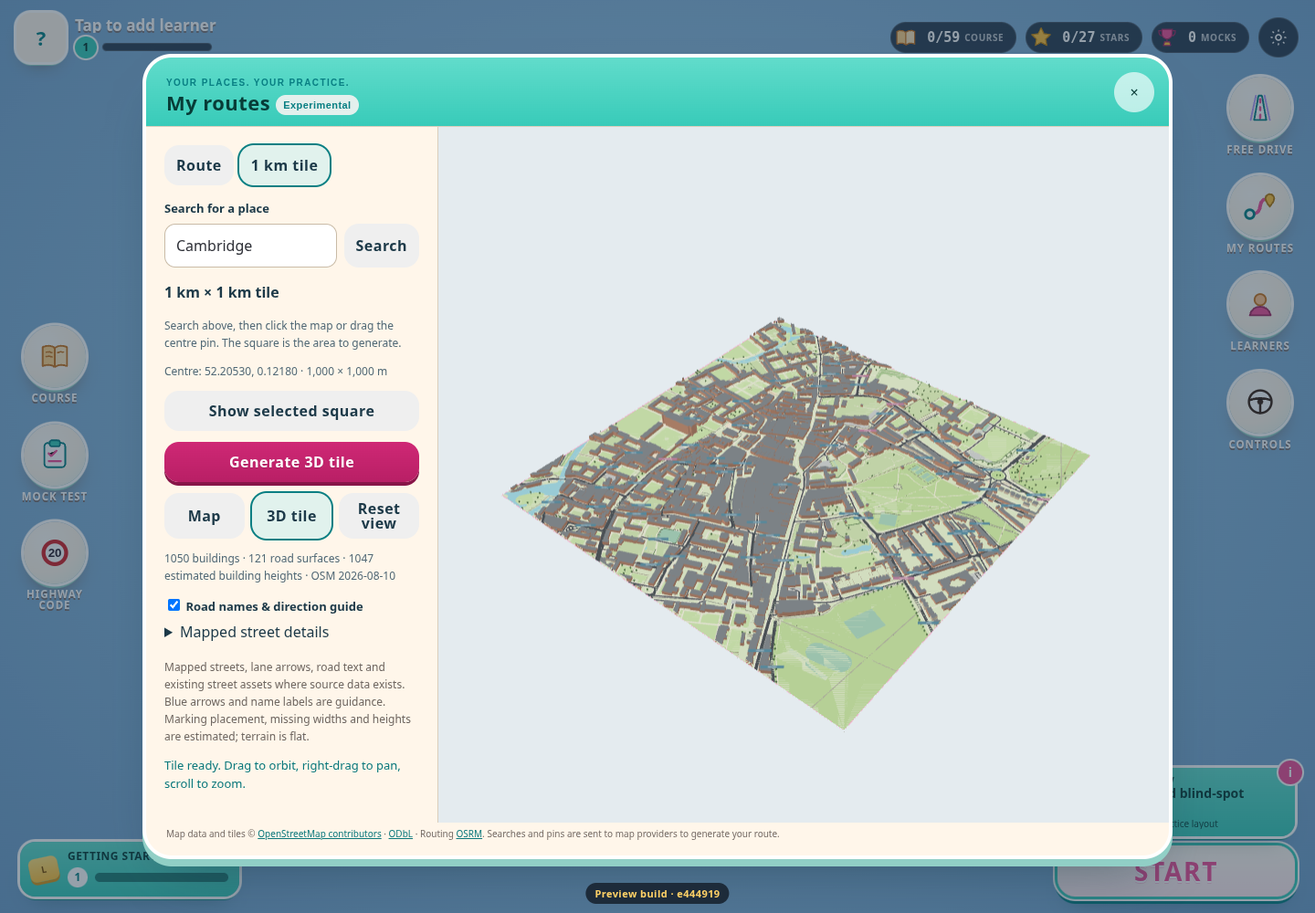
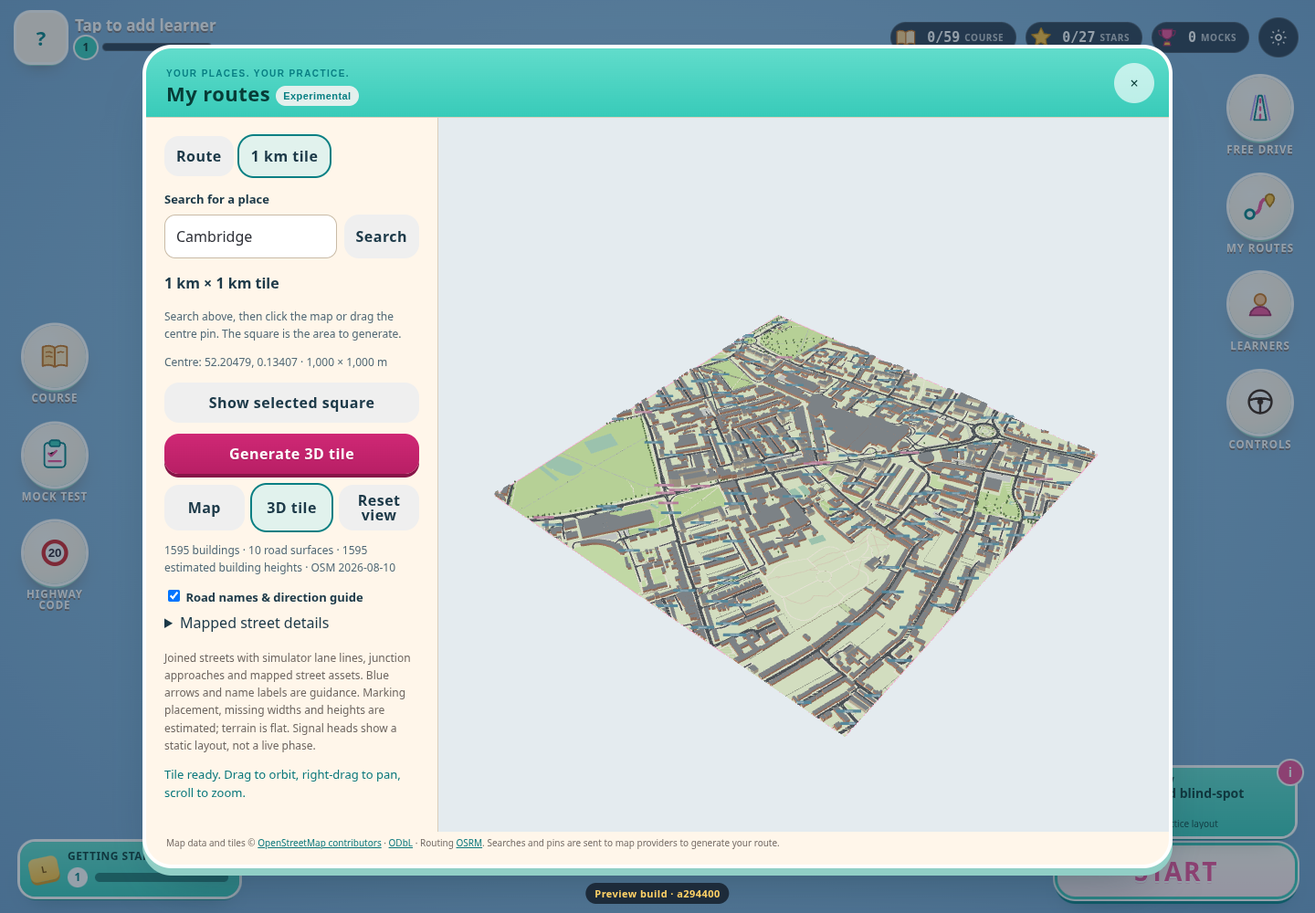
Fix tile road surfaces, markings and coordinated crossing layouts

diff --git a/js/tile-builder/street-data.js b/js/tile-builder/street-data.js
@@ -1,7 +1,10 @@
-import {along,posAt,nearest} from '../net.js';
+import {sameSignalApproach,crossingController} from './signals.js';
+import {yellowBoxPaint} from './markings.js';
+import {lineDashes,giveWayDist,isJunction} from '../markings.js';
+import {along,posAt,nearest,laneArrows} from '../net.js';
 import {dash} from '../road-ribbon.js';
 import {roadSpace,roadsidePosition} from '../road-space.js';
-import {objectBlocker} from '../roadside-clearance.js';
+import {objectBlocker,objectRings} from '../roadside-clearance.js';
 import {polygonOperation} from '../road-surfaces.js';
 
 const integer=v=>/^\d+$/.test(String(v))&&Number(v)>0&&Number(v)<=12?Number(v):null;
@@ -19,24 +22,26 @@ export function laneLayout(tags,oneway){
 }
 export function turnCode(value){const parts=value.split(';');if(parts.some(v=>!['left','through','right','none',''].includes(v)))return null;return ['left','through','right'].filter(v=>parts.includes(v)).map(v=>({left:'L',through:'S',right:'R'})[v]).join('');}
 const inside=p=>Math.abs(p.x)<=500&&Math.abs(p.z)<=500;
-export function streetData(track,net,data,core){
- const paint=[],arrows=[],texts=[],boxes=[],signs=[],signals=[],labels=[],guides=[],unknown=[],parking=[],restrictions=[];
+export function streetData(track,net,data,core,surface){
+ const paint=[],arrows=[],texts=[],boxes=[],signs=[],signals=[],labels=[],guides=[],unknown=[],parking=[],restrictions=[],crossings=[],tactile=[],crossingPaint=[],crossingAreas=[];
  const nodes=new Map(data.elements.filter(e=>e.type==='node').map(e=>[e.id,e])),project=n=>({x:(n.lon-net.origin[1])*net.kx,z:-(n.lat-net.origin[0])*net.kz});
  const blocked=objectBlocker(track.objects.filter(o=>o.type==='building')),space=roadSpace(net),source=track.osm.ways;
  const addQuad=(...v)=>{paint.push([Array.from({length:4},(_,i)=>[v[i*2],v[i*2+1]])]);};
  const rect=(p,w,l)=>{const nx=p.tz,nz=-p.tx;return [[-w/2,-l/2],[w/2,-l/2],[w/2,l/2],[-w/2,l/2]].map(([a,b])=>[p.x+nx*a+p.tx*b,p.z+nz*a+p.tz*b]);};
- const longest=new Map();
+ const longest=new Map();let inferredPaint=0,inferredArrows=0;
  for(const e of net.edges){
   const tags=source[track.network.edges[e.id][2]]?.tags||{},layout=laneLayout(tags,e.way.oneway),reverse=String(tags['oneway:motorcar']??tags['oneway:motor_vehicle']??tags.oneway)==='-1';
   const midpoint=posAt(e,e.len/2);if(inside(midpoint)&&tags.name&&(!longest.has(tags.name)||longest.get(tags.name).len<e.len))longest.set(tags.name,{...midpoint,text:tags.name,len:e.len});
   if(e.way.oneway&&inside(midpoint))guides.push({...midpoint,kind:'oneway',sourceId:source[track.network.edges[e.id][2]]?.osmId});
+  if(tags.lane_markings!=='no'&&tags.lane_markings!=='yes'&&e.way.w>=5&&!['service','living_street','track'].includes(e.way.cls)){for(const d of lineDashes(net,e)){dash({quad:addQuad},e,d.s,d.len,d.off,0,.07);inferredPaint++;}}
   if(tags.lane_markings==='yes'&&layout){
    const laneWidth=e.way.w/layout.total;
    for(let i=1;i<layout.total;i++){const off=e.way.w/2-i*laneWidth;for(let s=10;s<e.len-10;s+=7)dash({quad:addQuad},e,s,Math.min(3,e.len-10-s),off,0,.07);}
   }
   for(const dir of e.way.oneway?[1]:[1,-1]){
    const suffix=dir===1?(reverse?'backward':'forward'):'backward',n=layout?(dir===1?layout.forward:layout.backward):null;
-   const turns=tokens(tags['turn:lanes:'+suffix]??(e.way.oneway?tags['turn:lanes']:undefined));
+   let turns=tokens(tags['turn:lanes:'+suffix]??(e.way.oneway?tags['turn:lanes']:undefined)),estimated=false;
+   const approach=dir===1?e.b:e.a;if(!turns&&n>=2&&tags.lane_markings!=='no'&&isJunction(net,approach)){const codes=laneArrows(net,e,dir);if(codes?.length===n){turns=codes.map(c=>[...c].map(v=>({L:'left',S:'through',R:'right'})[v]).join(';'));estimated=true;}}
    const buses=tokens(tags['bus:lanes:'+suffix]??tags['psv:lanes:'+suffix]??(e.way.oneway?(tags['bus:lanes']??tags['psv:lanes']):undefined));
    if(!turns&&!buses)continue;
    if(!n||turns&&turns.length!==n||buses&&buses.length!==n){unknown.push('Lane count/direction mismatch on '+(tags.name||e.id));continue;}
@@ -44,8 +49,8 @@ export function streetData(track,net,data,core){
    for(let lane=0;lane<n;lane++){
     const offset=e.way.w/2-(lane+.5)*laneWidth;
     for(const back of [18,48]){
-     if(e.len<back+12)continue;const p=along(e,e.len-back,dir,offset);if(!inside(p))continue;
-     if(turns){const code=turnCode(turns[lane]);if(code)arrows.push({...p,code,width:Math.min(1.1,laneWidth*.5),length:4.5,source:'turn:lanes',estimatedPlacement:true});else if(code===null)unknown.push('Unsupported turn marking: '+turns[lane]);}
+     if(e.len<back+12)continue;const setback=giveWayDist(net,approach,e);if(e.len<back+setback+1)continue;const p=along(e,e.len-back-setback,dir,offset);if(!inside(p))continue;
+     if(turns&&(isJunction(net,approach)||net.inc[approach].length!==2)){const code=turnCode(turns[lane]);if(code){arrows.push({...p,code,width:Math.min(1.1,laneWidth*.5),length:4.5,source:estimated?'simulator-guidance':'turn:lanes',estimatedPlacement:true});if(estimated)inferredArrows++;}else if(code===null)unknown.push('Unsupported turn marking: '+turns[lane]);}
      if(back===48&&buses&&['designated','only'].includes(buses[lane]))texts.push({...p,text:'BUS LANE',width:Math.min(2.4,laneWidth*.8),length:7,estimatedPlacement:true});
     }
    }
@@ -53,16 +58,24 @@ export function streetData(track,net,data,core){
  }
  labels.push(...longest.values());
  function lineAt(f,width=.35,broken=false){const p={x:f.x,z:f.z,tx:f.tx,tz:f.tz};const n=f.e.way.oneway?f.w:f.w/2;const q={...p,x:p.x+p.tz*(f.e.way.oneway?0:f.w/4),z:p.z-p.tx*(f.e.way.oneway?0:f.w/4)};const span=Math.max(.6,n-.5);if(broken){for(let a=-span/2;a<span/2;a+=.6){const len=Math.min(.3,span/2-a);paint.push([rect({...q,x:q.x+q.tz*(a+len/2),z:q.z-q.tx*(a+len/2)},len,width)]);}}else paint.push([rect(q,span,width)]);}
- for(const s of net.stops){if(!inside(s))continue;lineAt(s);const p=roadsidePosition(net,s,{blocked});if(p&&inside(p))signals.push({...p,tx:s.tx,tz:s.tz,estimatedPlacement:true});}
- for(const s of net.giveways){if(!inside(s))continue;lineAt(s,s.stop?.4:.2,!s.stop);if(!s.stop){lineAt({...s,x:s.x-s.tx*.6,z:s.z-s.tz*.6},.2,true);}const p=roadsidePosition(net,s,{blocked});if(p&&inside(p))signs.push({...p,tx:s.tx,tz:s.tz,kind:s.stop?'stop':'giveway',estimatedPlacement:true});}
- for(const c of net.zebras){if(!inside(c))continue;for(let offset=-c.w/2+.4;offset<c.w/2-.3;offset+=1){const p={...c,x:c.x+c.tz*offset,z:c.z-c.tx*offset};paint.push([rect(p,.5,3.2)]);}}
+ for(const s of net.stops){if(!inside(s))continue;lineAt(s);const p=roadsidePosition(net,s,{blocked,sideOnly:true});if(p&&inside(p))signals.push({...p,tx:s.tx,tz:s.tz,role:'vehicle',sourceId:track.osm.signalSources[s.id]?.nodeId,estimatedPlacement:true});}
+ for(const s of net.giveways){if(!inside(s))continue;lineAt(s,s.stop?.4:.2,!s.stop);if(!s.stop){lineAt({...s,x:s.x-s.tx*.6,z:s.z-s.tz*.6},.2,true);}const p=roadsidePosition(net,s,{blocked,sideOnly:true});if(p&&inside(p))signs.push({...p,tx:s.tx,tz:s.tz,kind:s.stop?'stop':'giveway',estimatedPlacement:true});}
+
  for(const element of data.elements){
   const t=element.tags||{},mark=t.road_marking,word=String(t.text||t['road_marking:text']||'').toUpperCase();
   const polygon=element.type==='way'&&element.nodes?.length>3&&element.nodes[0]===element.nodes.at(-1)&&element.nodes.every(id=>nodes.has(id))?element.nodes.map(id=>{const p=project(nodes.get(id));return[p.x,p.z];}):null;
   const raw=element.type==='node'?project(element):polygon?{x:polygon.reduce((n,p)=>n+p[0],0)/polygon.length,z:polygon.reduce((n,p)=>n+p[1],0)/polygon.length}:null;
   if(!raw||!inside(raw))continue;
   const hit=nearest(net,raw.x,raw.z),p=hit?posAt(hit.e,hit.s):null;
-  if(['box_junction','yellow_box'].includes(mark)){if(polygon)boxes.push(...polygonOperation([[polygon]],core,'intersection'));else unknown.push('Yellow box without a mapped boundary');}
+  if((t.highway==='crossing'||t.highway==='traffic_signals'&&t.crossing==='traffic_signals')&&p&&hit.d<hit.e.way.w/2+2){
+   const kind=t.crossing==='zebra'||t.crossing_ref==='zebra'||t['crossing:markings']==='zebra'?'zebra':t.crossing==='traffic_signals'||['dots','dashes'].includes(t['crossing:markings'])?'signals':'unmarked',width=hit.e.way.w,controller=kind==='signals'?crossingController(net,hit.e,hit.s):{kind:'uncontrolled',approaches:[]};crossings.push({...p,kind,width,sourceId:element.id,controller,request:t.button_operated==='yes'?'button':t.button_operated==='no'?'automatic':'unspecified'});crossingAreas.push([rect(p,width+1,4.2)]);
+   if(kind==='signals'&&controller.kind==='standalone')for(const dir of hit.e.way.oneway?[1]:[1,-1]){const at=hit.s-dir*3.5;if(at<0||at>hit.e.len)continue;const q=posAt(hit.e,at),f={...q,tx:q.tx*dir,tz:q.tz*dir,e:hit.e,w:width};lineAt(f,.25);const pole=roadsidePosition(net,f,{blocked,sideOnly:true});if(pole&&inside(pole)&&!signals.some(s=>s.role==='vehicle'&&s.tx*f.tx+s.tz*f.tz>.9&&Math.abs((s.x-pole.x)*f.tz-(s.z-pole.z)*f.tx)<3&&Math.hypot(s.x-pole.x,s.z-pole.z)<20))signals.push({...pole,tx:f.tx,tz:f.tz,role:'vehicle',crossingId:element.id,estimatedPlacement:true});}
+   if(kind==='signals'&&t['crossing:signals']!=='no')for(const side of [-1,1]){const pole=roadsidePosition(net,{...p,w:width},{side,radius:.2,sideOnly:true,blocked});if(pole&&inside(pole))signals.push({...pole,tx:-p.tz*side,tz:p.tx*side,role:'pedestrian',crossingId:element.id,estimatedPlacement:true});}
+   if(kind==='zebra')for(let offset=-width/2+.3;offset<width/2-.2;offset+=1){const q={...p,x:p.x+p.tz*offset,z:p.z-p.tx*offset};crossingPaint.push([rect(q,Math.min(.5,width/2-offset),3.2)]);}
+   if(kind==='signals'&&t['crossing:markings']!=='no')for(const back of [-1.6,1.6])for(let offset=-width/2+.25;offset<width/2-.2;offset+=.75){const q={...p,x:p.x+p.tz*offset+p.tx*back,z:p.z-p.tx*offset+p.tz*back};crossingPaint.push([rect(q,.16,.16)]);}
+   if(t.tactile_paving==='yes')for(const side of [-1,1]){const q={...p,x:p.x+p.tz*side*(width/2+.55),z:p.z-p.tx*side*(width/2+.55)};tactile.push([rect(q,.8,2)]);}
+  }
+  if(['box_junction','yellow_box','yellow_box_junction'].includes(mark)||t.junction==='box'||t.box_junction==='yes'){if(polygon)boxes.push(...polygonOperation([[polygon]],core,'intersection'));else unknown.push('Yellow box without a mapped boundary');}
   else if(mark==='keep_clear'||mark&&word==='KEEP CLEAR'){if(p)texts.push({...raw,tx:p.tx,tz:p.tz,text:'KEEP CLEAR',width:Math.min(3,p&&hit.e.way.w/2||3),length:8,estimatedPlacement:!polygon});}
   else if(mark==='word'&&word&&p){texts.push({...raw,tx:p.tx,tz:p.tz,text:word.slice(0,40),width:3,length:7,estimatedPlacement:true});}
   if(t.amenity==='parking_space'&&polygon)parking.push(...polygonOperation([[polygon]],core,'intersection'));
@@ -72,10 +85,13 @@ export function streetData(track,net,data,core){
  }
  for(const r of track.osm.restrictions||[]){const via=r.members?.find(m=>m.role==='via'&&m.type==='node'),n=via&&nodes.get(via.ref);const p=n&&project(n);restrictions.push({...r,position:p||null});if(p&&inside(p))labels.push({...p,text:(r.tags.restriction||r.tags['restriction:conditional']||'Turn restriction').replaceAll('_',' ').toUpperCase(),restriction:true});}
  const excluded=[];
- const objects=track.objects.filter(o=>o.type!=='building'&&!o.properties.footprint&&!['footway','pedestrian'].includes(o.properties.mapFeature)).filter(o=>{
+ const objects=track.objects.filter(o=>o.type!=='building'&&!['footway','pedestrian','water','forest','parking','park','sports','garden','grass','cemetery','industrial','sand','plaza'].includes(o.properties.mapFeature)).filter(o=>{
   if(Math.abs(o.x)>510+o.sx/2||Math.abs(o.z)>510+o.sz/2)return false;
   if(['tree','lamp','bench','bin','postBox','bicycleParking','busStop'].includes(o.properties.mapFeature)&&space.disk(o.x,o.z,o.properties.mapFeature==='tree'?.2:Math.min(o.sx,o.sz)/2)){excluded.push(o.properties.sourceId);return false;}return true;
  });
+ const pathKinds=['cycleway','path','steps','bridleway'];const paths=pathKinds.map(kind=>({kind,polygons:polygonOperation(polygonOperation(objects.filter(o=>o.properties.mapFeature===kind).map(objectRings),core,'intersection'),surface.road,'difference')})).filter(p=>p.polygons.length);
+ const clippedBoxes=polygonOperation(boxes,surface.road,'intersection');
+ const uniqueSignals=[];for(const signal of signals)if(!uniqueSignals.some(s=>sameSignalApproach(s,signal)))uniqueSignals.push(signal);
  const counts={};for(const o of objects){const k=o.properties.mapFeature||o.type;counts[k]=(counts[k]||0)+1;}
- return {objects,paint:polygonOperation(paint,core,'intersection'),arrows,texts,boxes,parking,signals,signs,labels,guides,restrictions,counts,unknown:[...new Set(unknown)],excluded,sourceWays:source,network:track.network};
+ return {objects:objects.filter(o=>!pathKinds.includes(o.properties.mapFeature)),paths,paint:polygonOperation(polygonOperation([...polygonOperation(paint,crossingAreas,'difference'),...crossingPaint],core,'intersection'),surface.road,'intersection'),yellowPaint:yellowBoxPaint(clippedBoxes),arrows,texts,boxes:clippedBoxes,parking,signals:uniqueSignals,signs,labels,guides,restrictions,counts,unknown:[...new Set(unknown)],excluded,crossings,tactile:polygonOperation(polygonOperation(tactile,core,'intersection'),[...surface.pave,...surface.kerb],'intersection'),inferredPaint,inferredArrows,omittedSignalApproaches:track.osm.omittedSignalApproaches,fillets:net.fillets,sourceWays:source,network:track.network};
 }

diff --git a/js/tile-builder/controls.js b/js/tile-builder/controls.js
@@ -4,7 +4,7 @@ import {tileSelection} from './selection.js';
 // A mode inside the existing My routes panel. Shared theme, search and map.
 export function createTileControls({sheet,map,L,say,onMode}){
  const $=id=>sheet.querySelector('#'+id),host=document.createElement('div');host.id='tileControls';host.hidden=true;
- host.innerHTML=`<p><b>1 km × 1 km tile</b></p><p class="muted">Search above, then click the map or drag the centre pin. The square is the area to generate.</p><p id="tileCoordinates" class="muted"></p><button class="cbtn centre-pin" id="tileRecenter">Show selected square</button><button class="cbtn go generate-route" id="tileGenerate">Generate 3D tile</button><button class="cbtn" id="tileCancel" hidden>Cancel generation</button><div class="route-actions"><button class="cbtn" id="tileMap">Map</button><button class="cbtn" id="tile3D" disabled>3D tile</button><button class="cbtn" id="tileReset" hidden>Reset view</button></div><p id="tileCounts" class="muted"></p><label><input type="checkbox" id="tileGuides" checked> Road names &amp; direction guide</label><details id="tileCoverage" hidden><summary>Mapped street details</summary><p id="tileAssets"></p><p id="tileUnknown" class="muted"></p></details><p class="route-note">Mapped streets, lane arrows, road text and existing street assets where source data exists. Blue arrows and name labels are guidance. Marking placement, missing widths and heights are estimated; terrain is flat.</p>`;
+ host.innerHTML=`<p><b>1 km × 1 km tile</b></p><p class="muted">Search above, then click the map or drag the centre pin. The square is the area to generate.</p><p id="tileCoordinates" class="muted"></p><button class="cbtn centre-pin" id="tileRecenter">Show selected square</button><button class="cbtn go generate-route" id="tileGenerate">Generate 3D tile</button><button class="cbtn" id="tileCancel" hidden>Cancel generation</button><div class="route-actions"><button class="cbtn" id="tileMap">Map</button><button class="cbtn" id="tile3D" disabled>3D tile</button><button class="cbtn" id="tileReset" hidden>Reset view</button></div><p id="tileCounts" class="muted"></p><label><input type="checkbox" id="tileGuides" checked> Road names &amp; direction guide</label><details id="tileCoverage" hidden><summary>Mapped street details</summary><p id="tileAssets"></p><p id="tileUnknown" class="muted"></p></details><p class="route-note">Joined streets with simulator lane lines, junction approaches and mapped street assets. Blue arrows and name labels are guidance. Marking placement, missing widths and heights are estimated; terrain is flat. Signal heads show a static layout, not a live phase.</p>`;
  $('placeResults').after(host);
  const viewport=document.createElement('div');viewport.id='tileViewport';viewport.hidden=true;viewport.setAttribute('aria-label','Generated one kilometre tile');sheet.querySelector('.personal-map-column').append(viewport);
  let active=false,center=[.1218,52.2053],selection=tileSelection(center),tile=null,viewer=null,worker=null,controller=null,epoch=0;
@@ -32,7 +32,7 @@ export function createTileControls({sheet,map,L,say,onMode}){
   cancel();const token=epoch,point=[...center],chosen=selection;controller=new AbortController();const signal=controller.signal;busy(true);say('Downloading the square and its 100 m data buffer…');
   try{const osm=await request('osm',{body:{bounds:chosen.dataBounds},signal,onStatus:text=>{if(token===epoch)say(text);}});if(token!==epoch)return;say('Loading mapped road markings and parking bays…');let detailWarning='';try{const details=await request('tile-details',{body:{bounds:chosen.dataBounds},signal,onStatus:say});const elements=new Map(osm.elements.map(e=>[e.type+':'+e.id,e]));for(const e of details.elements){const key=e.type+':'+e.id;if(!elements.has(key))elements.set(key,e);}osm.elements=[...elements.values()];}catch(e){if(signal.aborted)throw e;detailWarning='Additional markings unavailable: '+e.message;}if(token!==epoch)return;say('Joining roads and building your 3D tile…');const result=await build(osm,point,signal);if(detailWarning)result.street.unknown.push(detailWarning);if(token!==epoch)return;
    if(!viewer){const {createViewer}=await import('./viewer.js');if(token!==epoch)return;try{viewer=createViewer(viewport);}catch{throw Error('3D graphics are unavailable. Enable browser hardware acceleration and retry.');}}
-   viewer.show(result);tile=result;$('tile3D').disabled=false;show3D();$('tileCounts').textContent=`${tile.stats.buildings} buildings · ${tile.stats.roadPolygons} road surfaces · ${tile.stats.estimatedHeights} estimated building heights${tile.source.timestamp?' · OSM '+tile.source.timestamp.slice(0,10):''}`;$('tileCoverage').hidden=false;$('tileAssets').textContent=Object.entries({...tile.street.counts,laneArrows:tile.street.arrows.length,roadText:tile.street.texts.length,yellowBoxes:tile.street.boxes.length,parkingBays:tile.street.parking.length,signals:tile.street.signals.length,signs:tile.street.signs.length,restrictions:tile.street.restrictions.length}).map(([k,v])=>`${k}: ${v}`).join(' · ');$('tileUnknown').textContent=`${tile.street.excluded.length} roadside objects omitted because their base overlaps a road. ${tile.street.unknown.join('; ')} Missing source markings are not generated. Restrictions are reference labels in this preview, not a driving test.`;say('Tile ready. Drag to orbit, right-drag to pan, scroll to zoom.');
+   viewer.show(result);tile=result;$('tile3D').disabled=false;show3D();$('tileCounts').textContent=`${tile.stats.buildings} buildings · ${tile.stats.roadPolygons} road surfaces · ${tile.stats.estimatedHeights} estimated building heights${tile.source.timestamp?' · OSM '+tile.source.timestamp.slice(0,10):''}`;$('tileCoverage').hidden=false;$('tileAssets').textContent=Object.entries({...tile.street.counts,laneArrows:tile.street.arrows.length,roadText:tile.street.texts.length,yellowBoxes:tile.street.boxes.length,parkingBays:tile.street.parking.length,vehicleSignals:tile.street.signals.filter(s=>s.role==='vehicle').length,pedestrianSignals:tile.street.signals.filter(s=>s.role==='pedestrian').length,signs:tile.street.signs.length,restrictions:tile.street.restrictions.length,pedestrianCrossings:tile.street.crossings.length,estimatedLineDashes:tile.street.inferredPaint,estimatedArrows:tile.street.inferredArrows}).map(([k,v])=>`${k}: ${v}`).join(' · ');$('tileUnknown').textContent=`${tile.street.excluded.length} roadside objects omitted because their base overlaps a road. ${tile.street.unknown.join('; ')} Standard lane lines and approach guidance use simulator estimates; exact yellow boxes and parking bays require mapped boundaries. Restrictions are reference labels in this preview, not a driving test.`;say('Tile ready. Drag to orbit, right-drag to pan, scroll to zoom.');
   }catch(e){if(token===epoch&&e.name!=='AbortError')say(e.message);}finally{if(token===epoch)busy(false);}
  };
  $('tileGuides').onchange=()=>viewer?.setGuides($('tileGuides').checked);

diff --git a/js/tile-builder/street-renderer.js b/js/tile-builder/street-renderer.js
@@ -3,17 +3,23 @@ import {BufferGeometryUtils} from 'three/examples/jsm/utils/BufferGeometryUtils.
 import {mappedAppearance} from '../mapped-scenery.js';
 import {buildNet} from '../net.js';
 import {surfaceGeometry} from '../road-surfaces.js';
-import {arrowTex,speedSignTex,giveWaySignTex,noEntryTex} from '../signs.js';
-import {roadText,boxTexture} from '../world.js';
+import {applyMappedRoadTags} from '../mapped-road-tags.js';
+import {objectBlocker} from '../roadside-clearance.js';
+import {invalidateRoadSpace} from '../road-space.js';
+import {buildSigns,arrowTex,speedSignTex,giveWaySignTex,noEntryTex} from '../signs.js';
+import {roadText} from '../world.js';
 
 // Original simulator assets, batched within this disposable preview scene.
-export function addStreet(parent,street){
+export function addStreet(parent,street,buildings=[]){
  const solids=new T.Group(),guidance=new T.Group();parent.add(solids,guidance);
  const color=c=>new T.Color(c).convertSRGBToLinear();
  const solid=(geo,c,x=0,y=0,z=0)=>{const m=new T.Mesh(geo,new T.MeshLambertMaterial({color:color(c)}));m.position.set(x,y,z);solids.add(m);return m;};
- const net=buildNet(street.network);
+ const net=buildNet(street.network,{tidyLines:false});applyMappedRoadTags(net,street.sourceWays);net.fillets=street.fillets;invalidateRoadSpace(net);
+ const blockers=buildings.map(b=>{const xs=b.rings[0].map(p=>p[0]),zs=b.rings[0].map(p=>p[1]);return {type:'building',x:(Math.min(...xs)+Math.max(...xs))/2,z:(Math.min(...zs)+Math.max(...zs))/2,y:b.bottom,sx:Math.max(...xs)-Math.min(...xs),sz:Math.max(...zs)-Math.min(...zs),rotation:0,properties:{footprint:b.rings[0].map(([x,z])=>({x,z})),holes:b.rings.slice(1).map(r=>r.map(([x,z])=>({x,z})))}};});
+ buildSigns(parent,net,{blocked:objectBlocker(blockers),laneGuidance:false});
  for(const o of street.objects){const m=new T.Mesh(new T.BoxGeometry(),new T.MeshLambertMaterial());m.position.set(o.x,o.y+o.sy/2,o.z);m.rotation.y=o.rotation;m.scale.set(o.sx,o.sy,o.sz);mappedAppearance(T,m,o,net);m.traverse(c=>{for(const mat of [].concat(c.material||[]))mat.color?.convertSRGBToLinear();});solids.add(m);}
  for(const p of street.signals){
+  if(p.role==='pedestrian'){solid(new T.CylinderGeometry(.04,.05,1.5,6),0x4b5154,p.x,.75,p.z);const head=solid(new T.BoxGeometry(.3,.5,.18),0x262c2b,p.x,1.3,p.z);head.rotation.y=Math.atan2(-p.tx,-p.tz);const person=new T.Group();const red=new T.MeshBasicMaterial({color:0xed504c});const skull=new T.Mesh(new T.CircleGeometry(.035,8),red);skull.position.set(0,.11,.096);person.add(skull);const body=new T.Mesh(new T.PlaneGeometry(.035,.11),red);body.position.set(0,.03,.096);person.add(body);for(const side of [-1,1]){const leg=new T.Mesh(new T.PlaneGeometry(.025,.09),red);leg.position.set(side*.025,-.055,.096);person.add(leg);}head.add(person);continue;}
   solid(new T.CylinderGeometry(.075,.09,3.9,8),0x4b5154,p.x,1.95,p.z);
   const head=solid(new T.BoxGeometry(.48,1.4,.34),0x262c2b,p.x,3.35,p.z);head.rotation.y=Math.atan2(-p.tx,-p.tz);
   for(let i=0;i<3;i++){const lamp=new T.Mesh(new T.CircleGeometry(.16,12),new T.MeshLambertMaterial({color:color([0x793330,0x796537,0x315942][i])}));lamp.position.set(0,.43-i*.43,.176);head.add(lamp);}
@@ -31,10 +37,12 @@ export function addStreet(parent,street){
  for(const p of street.texts){const key='text:'+p.text;if(!batches.has(key))batches.set(key,{tex:()=>roadText(p.text),items:[]});batches.get(key).items.push(p);}
  for(const [key,b]of batches)textured(key,b.tex,floor(),b.items);
  if(street.paint.length)solid(surfaceGeometry(T,street.paint),0xf2f1ea,0,.07,0);
+ if(street.tactile?.length)solid(surfaceGeometry(T,street.tactile),0xd6b38b,0,.045,0);
  const outlines=[];
  for(const polygon of street.parking)for(const ring of polygon)for(let i=0;i<ring.length;i++){const a=ring[i],b=ring[(i+1)%ring.length];outlines.push(a[0],.09,a[1],b[0],.09,b[1]);}
  if(outlines.length){const geo=new T.BufferGeometry();geo.setAttribute('position',new T.Float32BufferAttribute(outlines,3));parent.add(new T.LineSegments(geo,new T.LineBasicMaterial({color:0xf2f1ea})));}
- for(const polygon of street.boxes){const geo=surfaceGeometry(T,[polygon]),pos=geo.attributes.position;geo.computeBoundingBox();const b=geo.boundingBox,w=Math.max(1,b.max.x-b.min.x),l=Math.max(1,b.max.z-b.min.z),uv=[];for(let i=0;i<pos.count;i++)uv.push((pos.getX(i)-b.min.x)/w,(pos.getZ(i)-b.min.z)/l);geo.setAttribute('uv',new T.Float32BufferAttribute(uv,2));const m=new T.Mesh(geo,new T.MeshBasicMaterial({map:boxTexture(l,w),transparent:true,depthWrite:false,side:T.DoubleSide}));m.position.y=.085;m.renderOrder=3;parent.add(m);}
+ for(const path of street.paths||[])solid(surfaceGeometry(T,path.polygons),path.kind==='cycleway'?0xa3aaa5:0xc4bba8,0,.02,0);
+ if(street.yellowPaint?.length){const m=new T.Mesh(surfaceGeometry(T,street.yellowPaint),new T.MeshBasicMaterial({color:0xf0c419,side:T.DoubleSide}));m.position.y=.085;parent.add(m);}
  function stopTexture(){const canvas=document.createElement('canvas');canvas.width=canvas.height=128;const g=canvas.getContext('2d');g.fillStyle='#cf2333';g.strokeStyle='white';g.lineWidth=5;g.beginPath();for(let i=0;i<8;i++){const a=(i+.5)*Math.PI/4,x=64+59*Math.cos(a),y=64+59*Math.sin(a);i?g.lineTo(x,y):g.moveTo(x,y);}g.closePath();g.fill();g.stroke();g.fillStyle='white';g.font='bold 32px sans-serif';g.textAlign='center';g.fillText('STOP',64,75);return new T.CanvasTexture(canvas);}
  const signGroups=new Map();
  for(const p of street.signs){solid(new T.CylinderGeometry(.04,.05,2.3,6),0x777f82,p.x,1.15,p.z);const k=p.kind+':'+p.value;if(!signGroups.has(k))signGroups.set(k,{p,items:[]});signGroups.get(k).items.push(p);}

diff --git a/js/tile-builder/model.js b/js/tile-builder/model.js
@@ -1,10 +1,14 @@
+import {filterSignalApproaches} from './signals.js';
 import {streetData} from './street-data.js';
 import {boundsCheck} from '../personal/geometry.js';
 import {convertOSM} from '../personal/geo/osm.js';
 import {buildNet} from '../net.js';
 import {applyMappedRoadTags} from '../mapped-road-tags.js';
-import {joinedRoadSurfaces,polygonOperation} from '../road-surfaces.js';
-import {objectRings} from '../roadside-clearance.js';
+import {tileSurfaces} from './surfaces.js';
+import {polygonOperation} from '../road-surfaces.js';
+import {joinMappedPaths} from '../path-joins.js';
+import {correctApproaches} from '../junction-approaches.js';
+import {objectRings,fitRoadCorners} from '../roadside-clearance.js';
 
 import {tileSelection,TILE_SIZE} from './selection.js';
 export {tileSelection} from './selection.js';
@@ -15,9 +19,13 @@ export function generateTile(data,center){
   if(data?.remark)throw Error('The provider returned incomplete map data. Please retry.');
   if(!Array.isArray(data?.elements)||data.elements.length>60000)throw Error('This square contains too much map data. Move it to a less dense area and retry.');
   const track=convertOSM(data,selection.dataBounds,{boundsCheck,makeTrack,object,preserveSourceGeometry:true,limits:{elements:60000,nodes:120000,edges:20000,objects:20000}});
-  const net=buildNet(track.network);applyMappedRoadTags(net,track.osm?.ways);
+  const signalFilter=filterSignalApproaches(track,data);track.network=signalFilter.network;track.osm.signalSources=signalFilter.sources;track.osm.omittedSignalApproaches=signalFilter.omitted;
+  track.objects=joinMappedPaths(track.objects);
+  let net=buildNet(track.network,{tidyLines:false});applyMappedRoadTags(net,track.osm?.ways);fitRoadCorners(net,track.objects);
+  const corrected=correctApproaches(track.network,net);track.network=corrected.network;
+  net=buildNet(track.network,{tidyLines:false});applyMappedRoadTags(net,track.osm?.ways);fitRoadCorners(net,track.objects);
   const edge=TILE_SIZE/2,core=[[[[-edge,-edge],[edge,-edge],[edge,edge],[-edge,edge]]]];
-  const surfaces=joinedRoadSurfaces(net,track.objects).map(t=>Object.fromEntries(['road','pave','kerb'].map(k=>[k,polygonOperation(t[k],core,'intersection')])));
+  const surfaces=tileSurfaces(net,track.objects,core);
   const land=[];let occupied=[];
   for(const kind of ['water','plaza','parking','sports','garden','forest','park','grass','sand','industrial']){
     const input=track.objects.filter(o=>o.properties.mapFeature===kind&&o.properties.footprint).map(objectRings);if(!input.length)continue;
@@ -29,5 +37,5 @@ export function generateTile(data,center){
     const clipped=polygonOperation([objectRings(o)],core,'intersection');
     for(const rings of clipped)buildings.push({id:o.properties.osmId||o.id,rings,height:o.sy,bottom:o.y||0,estimated:!!o.properties.heightEstimated,type:o.properties.tags?.building||'yes'});
   }
-  return {selection,surfaces,land,buildings,street:streetData(track,net,data,core),source:{provider:'OpenStreetMap',attribution:'© OpenStreetMap contributors · ODbL',timestamp:track.osm.dataTimestamp},stats:{buildings:buildings.length,estimatedHeights:buildings.filter(b=>b.estimated).length,roadPolygons:surfaces.reduce((n,t)=>n+t.road.length,0)},notes:['Flat terrain for this prototype.','Road widths and untagged building heights use estimates.','Lane arrows and road text use source tags; their placement is estimated.']};
+  return {selection,surfaces,land,buildings,street:streetData(track,net,data,core,surfaces[0]),source:{provider:'OpenStreetMap',attribution:'© OpenStreetMap contributors · ODbL',timestamp:track.osm.dataTimestamp},stats:{buildings:buildings.length,estimatedHeights:buildings.filter(b=>b.estimated).length,roadPolygons:surfaces.reduce((n,t)=>n+t.road.length,0)},notes:['Flat terrain for this prototype.','Road widths and untagged building heights use estimates.','Standard road markings are inferred when source tags are missing; exact box boundaries require mapped data.']};
 }

diff --git a/js/tile-builder/surfaces.js b/js/tile-builder/surfaces.js
@@ -1,0 +1,34 @@
+import Clipper from '../vendor/clipper.js';
+import {polygonOperation,offsetPolygons,roundedSurface,isGroundPavement} from '../road-surfaces.js';
+import {objectRings} from '../roadside-clearance.js';
+import {roadJoinRings} from '../road-joins.js';
+import {ribbon} from '../road-ribbon.js';
+
+// Offset the entire centreline, not a chain of intersecting rectangles. Rounded
+// joins survive short bend segments without bow-tie triangles or needle tips.
+export function bufferedLine(points,radius){
+ const path=[];for(const [x,z]of points){const p={X:Math.round(x*1000),Y:Math.round(z*1000)};if(!path.length||p.X!==path.at(-1).X||p.Y!==path.at(-1).Y)path.push(p);}
+ if(path.length<2||radius<=0)return [];
+ const offset=new Clipper.ClipperOffset(2,15),paths=[];offset.AddPath(path,Clipper.JoinType.jtRound,Clipper.EndType.etOpenRound);offset.Execute(paths,radius*1000);
+ // Reconstruct the nesting before converting to the simulator polygon format.
+ const clip=new Clipper.Clipper(),tree=new Clipper.PolyTree();clip.AddPaths(paths,Clipper.PolyType.ptSubject,true);clip.Execute(Clipper.ClipType.ctUnion,tree,Clipper.PolyFillType.pftNonZero,Clipper.PolyFillType.pftNonZero);
+ const result=[],ring=n=>n.Contour().map(p=>[p.X/1000,p.Y/1000]);const visit=n=>{for(const child of n.Childs()){if(!child.IsHole())result.push([ring(child),...child.Childs().filter(c=>c.IsHole()).map(ring)]);visit(child);}};visit(tree);return result;
+}
+export function tileSurfaces(net,objects,core){
+ const roads=[],pavements=objects.filter(isGroundPavement).map(objectRings);
+ for(const e of net.edges){
+  const points=Array.from({length:e.n},(_,i)=>[e.px[i],e.pz[i]]),half=e.way.w/2;
+  roads.push(...bufferedLine(points,half));
+  const [left,right]=e.way.sidewalkWidths||[2,2];
+  if(left>0&&Math.abs(left-right)<.01)pavements.push(...bufferedLine(points,half+left));
+  else for(const [width,lo,hi]of [[left,half,half+left],[right,-half-right,-half]])if(width>0)ribbon({quad:(...v)=>pavements.push([Array.from({length:4},(_,i)=>[v[i*2],v[i*2+1]])])},e,lo,hi,0);
+ }
+ for(const {ring}of roadJoinRings(net))roads.push([ring]);
+ for(const f of net.fillets){const polygon=[[f.C,...f.pts]];roads.push(polygon);const widths=net.inc[f.node].flatMap(({e})=>e.way.sidewalkWidths||[2,2]);if(widths.every(w=>w>0))pavements.push(...offsetPolygons([polygon],Math.min(...widths)));}
+ // Fill sub-metre ribbon cracks, never whole mapped islands. Then round the
+ // remaining sharp tips. This affects render surfaces only, not OSM nodes.
+ const joined=polygonOperation(roads,[]),road=roundedSurface(offsetPolygons(offsetPolygons(joined,.3),-.3),.2);
+ const outside=polygonOperation(roundedSurface(polygonOperation(pavements,[]),.3),offsetPolygons(road,.003),'difference');
+ const kerb=polygonOperation(outside,offsetPolygons(road,.14),'intersection'),pave=polygonOperation(outside,offsetPolygons(road,.143),'difference');
+ return [{road:polygonOperation(road,core,'intersection'),pave:polygonOperation(pave,core,'intersection'),kerb:polygonOperation(kerb,core,'intersection')}];
+}

diff --git a/js/tile-builder/signals.js b/js/tile-builder/signals.js
@@ -1,0 +1,33 @@
+import {buildNet} from '../net.js';
+// A mapped signal node may lie between two road edges. That does not mean it
+// controls both directions. Apply the OSM direction before moving approach bars.
+export function filterSignalApproaches(track,data){
+ const nodes=new Map(data.elements.filter(e=>e.type==='node').map(e=>[e.id,e])),net=buildNet(track.network,{tidyLines:false}),sources=[],stops=[];
+ const crossingNodes=[...nodes.values()].filter(n=>n.tags?.crossing==='traffic_signals');
+ let omitted=0;
+ for(const st of net.stops){
+  const ref=track.osm.edges[st.e.id],nodeId=ref?.[st.dir>0?'endOsmNode':'startOsmNode'],node=nodes.get(nodeId),tags=node?.tags||{},wayTags=track.osm.ways[track.network.edges[st.e.id][2]]?.tags||{};
+  const reversed=String(wayTags['oneway:motorcar']??wayTags['oneway:motor_vehicle']??wayTags.oneway)==='-1',sourceDir=st.dir*(reversed?-1:1),direction=tags['traffic_signals:direction'];
+  if(tags.traffic_signals==='pedestrian'||direction==='forward'&&sourceDir<0||direction==='backward'&&sourceDir>0){omitted++;continue;}
+  if(!direction&&node&&net.inc[st.dir>0?st.e.b:st.e.a].length<=2){
+   const x=(node.lon-net.origin[1])*net.kx,z=-(node.lat-net.origin[0])*net.kz;
+   const near=crossingNodes.map(n=>({x:(n.lon-net.origin[1])*net.kx-x,z:-(n.lat-net.origin[0])*net.kz-z})).map(p=>({...p,d:Math.hypot(p.x,p.z)})).filter(p=>p.d>2&&p.d<25&&Math.abs((p.x*st.tx+p.z*st.tz)/p.d)>.85).sort((a,b)=>a.d-b.d)[0];
+   if(near&&near.x*st.tx+near.z*st.tz<0){omitted++;continue;}
+  }
+  stops.push(track.network.stops[st.id]);sources.push({nodeId,sourceDirection:sourceDir,role:'vehicle'});
+ }
+ return {network:{...track.network,stops},sources,omitted};
+}
+export function sameSignalApproach(a,b){return a.role===b.role&&a.tx*b.tx+a.tz*b.tz>.94&&Math.abs((a.x-b.x)*a.tz-(a.z-b.z)*a.tx)<2&&Math.hypot(a.x-b.x,a.z-b.z)<4;}
+
+// Follow the carriageway to its first nearby junction. A crossing coordinated
+// with that junction reuses its vehicle approaches; a button is an input to a
+// controller, not evidence that a separate controller/pair of lights exists.
+export function crossingController(net,edge,s){
+ const queue=[{v:edge.a,d:s,from:edge},{v:edge.b,d:edge.len-s,from:edge}],seen=new Set();
+ while(queue.length){queue.sort((a,b)=>a.d-b.d);const {v,d,from}=queue.shift();if(d>35||seen.has(v))continue;seen.add(v);const arms=net.inc[v];
+  if(arms.length>=3){const near=net.stops.filter(st=>Math.hypot(st.x-net.nx[v],st.z-net.nz[v])<35);if(near.some(a=>near.some(b=>Math.abs(a.tx*b.tx+a.tz*b.tz)<.85)))return {kind:'junction',node:v,approaches:near.map(st=>st.id)};continue;}
+  for(const arm of arms)if(arm.e!==from)queue.push({v:arm.e.a===v?arm.e.b:arm.e.a,d:d+arm.e.len,from:arm.e});
+ }
+ return {kind:'standalone',node:null,approaches:[]};
+}

diff --git a/server/map/handler.js b/server/map/handler.js
@@ -40,8 +40,14 @@ export async function handleMapRequest(request,env={},deps={}) {
   try{
     let target=upstream;
     if(path==='tile-details'){const provider=new URL(upstream),query=provider.searchParams.get('data');provider.search='';target=provider.href;options={...options,method:'POST',headers:{...options.headers,'Content-Type':'application/x-www-form-urlencoded'},body:new URLSearchParams({data:query}).toString()};}
-    const response=await fetcher(target,options);
-    if(!response.ok)return json({message:response.status===429?'The map provider is busy. Please wait and retry.':response.status===400&&path==='route'?'The routing provider cannot connect these pins. Choose points on connected public roads.':'The map provider is unavailable. Please retry shortly.'},response.status===429?429:502,{'Retry-After':response.headers.get('Retry-After')||'6'});
+    let response;
+    if(path==='tile-details'){
+      // Independent public mirror for outages only. A rate limit or other 4xx
+      // response is returned to the caller, never evaded by switching servers.
+      const providers=[target,'https://overpass.private.coffee/api/interpreter'];
+      for(let i=0;i<providers.length;i++){try{response=await fetcher(providers[i],{...options,signal:AbortSignal.timeout(15000)});if(response.status<500||i===providers.length-1)break;await response.body?.cancel();}catch(e){if(i===providers.length-1)throw e;}}
+    }else response=await fetcher(target,options);
+    if(!response.ok)return json({providerStatus:response.status,message:response.status===429?'The map provider is busy. Please wait and retry.':response.status===400&&path==='route'?'The routing provider cannot connect these pins. Choose points on connected public roads.':'The map provider is unavailable. Please retry shortly.'},response.status===429?429:502,{'Retry-After':response.headers.get('Retry-After')||'6'});
     // Bound response size without buffering an unbounded provider response.
     const reader=response.body.getReader(),chunks=[];let size=0;
     try{while(true){const {done,value}=await reader.read();if(done)break;size+=value.length;if(size>12*1024*1024){await reader.cancel();return json({message:'The map provider response was too large. Try a less detailed route or retry later.'},422);}chunks.push(value);}}finally{reader.releaseLock();}

diff --git a/js/tile-builder/viewer.js b/js/tile-builder/viewer.js
@@ -35,9 +35,9 @@ export function createViewer(container){
       geometry.setAttribute('color',new T.Float32BufferAttribute(colors,3));geometries.push(geometry);
     }
     if(geometries.length){const combined=BufferGeometryUtils.mergeBufferGeometries(geometries);geometries.forEach(g=>g.dispose());const material=new T.MeshLambertMaterial({vertexColors:true});group.add(new T.Mesh(combined,material));}
-    guidance=addStreet(group,tile.street);guidance.visible=guidesVisible;renderer.domElement.dataset.streetAssets=String(tile.street.objects.length);
+    guidance=addStreet(group,tile.street,tile.buildings);guidance.visible=guidesVisible;renderer.domElement.dataset.streetAssets=String(tile.street.objects.length);
     const border=new T.BufferGeometry().setFromPoints([[-500,-500],[500,-500],[500,500],[-500,500],[-500,-500]].map(([x,z])=>new T.Vector3(x,.1,z)));group.add(new T.Line(border,new T.LineBasicMaterial({color:0xe56a9f})));
     renderer.domElement.dataset.buildings=String(tile.buildings.length);renderer.domElement.dataset.center=tile.selection.center.join(',');reset();
   }
-  return {show,clear,reset,render,setGuides(value){guidesVisible=value;if(guidance)guidance.visible=value;render();},stats:()=>({calls:renderer.info.render.calls,triangles:renderer.info.render.triangles})};
+  return {show,clear,reset,render,focus(x,z,{distance=180,azimuth=0,elevation=1.3}={}){controls.target.set(x,0,z);camera.position.set(x+distance*Math.cos(elevation)*Math.sin(azimuth),distance*Math.sin(elevation),z+distance*Math.cos(elevation)*Math.cos(azimuth));controls.update();render();},setGuides(value){guidesVisible=value;if(guidance)guidance.visible=value;render();},stats:()=>({calls:renderer.info.render.calls,triangles:renderer.info.render.triangles})};
 }

diff --git a/js/tile-builder/markings.js b/js/tile-builder/markings.js
@@ -1,0 +1,14 @@
+import {polygonOperation,offsetPolygons} from '../road-surfaces.js';
+// True metre-scale hatching clipped to the mapped box, including islands/holes.
+// No transparent rectangular texture crossing a diagonal or curved boundary.
+export function yellowBoxPaint(polygons){
+ const all=[];
+ for(const poly of polygons){
+  const outer=poly[0],xs=outer.map(p=>p[0]),zs=outer.map(p=>p[1]),cx=(Math.min(...xs)+Math.max(...xs))/2,cz=(Math.min(...zs)+Math.max(...zs))/2,span=Math.hypot(Math.max(...xs)-Math.min(...xs),Math.max(...zs)-Math.min(...zs));
+  if(span<.1)continue;
+  let axis=0,longest=0;outer.forEach((a,i)=>{const b=outer[(i+1)%outer.length],len=Math.hypot(b[0]-a[0],b[1]-a[1]);if(len>longest){longest=len;axis=Math.atan2(b[1]-a[1],b[0]-a[0]);}});
+  const stripes=[];for(const angle of [axis+Math.PI/4,axis-Math.PI/4]){const tx=Math.cos(angle),tz=Math.sin(angle),nx=-tz,nz=tx;for(let d=-span;d<=span;d+=2)stripes.push([[[-1,-1],[1,-1],[1,1],[-1,1]].map(([a,b])=>[cx+nx*(d+a*.075)+tx*b*span,cz+nz*(d+a*.075)+tz*b*span])]);}
+  all.push(...polygonOperation(stripes,[poly],'intersection'),...polygonOperation([poly],offsetPolygons([poly],-.15),'difference'));
+ }
+ return polygonOperation(polygonOperation(all,[]),offsetPolygons(polygons,-.004),'intersection');
+}

diff --git a/js/road-space.js b/js/road-space.js
@@ -22,10 +22,10 @@ export function roadSpace(net){
  const overlaps=(rings,margin=0)=>{const r=rings[0],xs=r.map(p=>p[0]),zs=r.map(p=>p[1]),solid=p=>insideRing(p,r)&&!rings.slice(1).some(h=>insideRing(p,h));return nearby(Math.min(...xs)-margin,Math.min(...zs)-margin,Math.max(...xs)+margin,Math.max(...zs)+margin).filter(p=>solidOverlap(rings,p.ring,margin)).map(p=>p.edge);};
  const result={patches,nearby,disk,overlaps};cache.set(net,result);return result;
 }
-export function roadsidePosition(net,feature,{radius=.4,side=1,blocked=()=>false}={}){
+export function roadsidePosition(net,feature,{radius=.4,side=1,sideOnly=false,blocked=()=>false}={}){
  const space=roadSpace(net),nx=feature.tz,nz=-feature.tx;
  // Never fall back to an unsafe point if every candidate fails.
- for(const sd of [side,-side])for(const extra of [0,.75,1.5,2.5,4,6])for(const back of [0,1.5,3,5,8,12]){
+ for(const sd of (sideOnly?[side]:[side,-side]))for(const extra of [0,.75,1.5,2.5,4,6])for(const back of [0,1.5,3,5,8,12]){
   const off=sd*(feature.w/2+.8+radius+extra),x=feature.x+nx*off-feature.tx*back,z=feature.z+nz*off-feature.tz*back;
   if(!space.disk(x,z,radius+.35)&&!net.cycleRings.some(r=>Math.abs(Math.hypot(x-r.x,z-r.z)-r.r)<1.8+radius)&&!blocked(x,z,radius))return {x,z};
  }

diff --git a/js/signs.js b/js/signs.js
@@ -60,7 +60,7 @@ class Batch {
   }
 }
 
-export function buildSigns(scene, net, {blocked=()=>false,placements=[]}={}) {
+export function buildSigns(scene, net, {blocked=()=>false,placements=[],laneGuidance=true}={}) {
   const floorG = new T.PlaneGeometry(1, 1); floorG.rotateX(-Math.PI / 2);
   const floor = (tex) => { const m = new T.MeshBasicMaterial({ map: tex, transparent: true, depthWrite: false }); return new Batch(floorG, m, 5); };
   const plateG = new T.PlaneGeometry(1, 1), discG = new T.CircleGeometry(0.5, 24);
@@ -133,7 +133,7 @@ export function buildSigns(scene, net, {blocked=()=>false,placements=[]}={}) {
       // lane arrows where there are two or more lanes towards the junction
       // lane arrows (the same ones the examiner marks you on)
       const L = laneInfo(e, ad), codes = L.n >= 2 && e.len > 40 ? laneArrows(net, e, ad) : null;
-      if (codes) {
+      if (codes && laneGuidance) {
         const KIND = { L: 'left', S: 'ahead', R: 'right', LS: 'aheadleft', SR: 'aheadright' };
         const back0 = signals ? 4 : 0;
         codes.forEach((c, i) => { for (const back of [10, 32, 60]) if (back < e.len - 12) paint(arrowB(KIND[c] || 'ahead'), e, e.len - stopDist - back - back0, ad, laneCentre(e, ad, i), 1.1, 4.5); });

diff --git a/server/map/tile-details.js b/server/map/tile-details.js
@@ -5,5 +5,5 @@ export function tileDetailQuery(bounds){
  boundsCheck(bounds);const [south,west,north,east]=bounds;
  const width=(east-west)*111320*Math.cos((north+south)/2*Math.PI/180),height=(north-south)*110574;
  if(width>1250||height>1250)throw Error('Street detail requests are limited to a one kilometre tile and its buffer.');
- const b=bounds.join(',');return `[out:json][timeout:20][maxsize:8388608];(nwr[road_marking](${b});way[amenity=parking_space](${b}););(._;>>;);out body;`;
+ const b=bounds.join(',');return `[out:json][timeout:20][maxsize:8388608];(nwr[road_marking](${b});nwr[junction=box](${b});nwr[box_junction=yes](${b});way[amenity=parking_space](${b}););(._;>>;);out body;`;
 }
